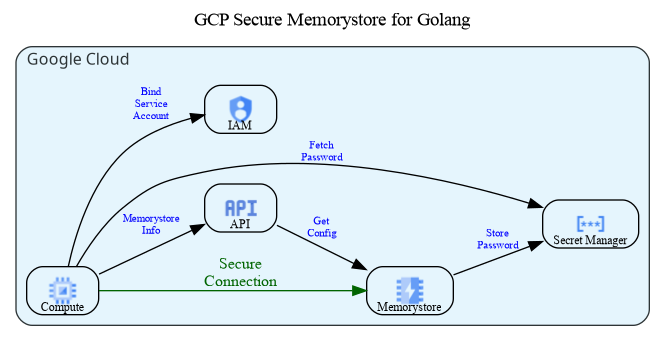
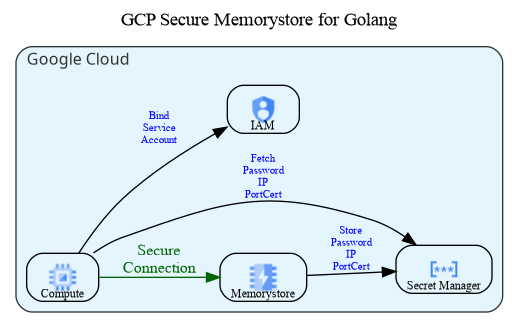
Update docs to detail the new procedure

diff --git a/README.md b/README.md
@@ -2,6 +2,23 @@
 
 Example for connecting to GCP Memorystore using Golang.
 
+The terraform stores the following settings in [Secret Manager](https://cloud.google.com/secret-manager/docs)
+
+| Setting |
+| --- |
+| IP Address |
+| Port |
+| TLS Certificate |
+| Auth String |
+
+The previous version of this called the backend API to obtain the server information.
+
+This has been changed for the following reasons
+
+- Access to the backed API should be restricted more tightly
+- Calls to the backend API are rate limited with a hard limit so larger deployments may hit this issue
+
+
 ![diagram](./docs/diagram.png)
 
 ## Terraform
